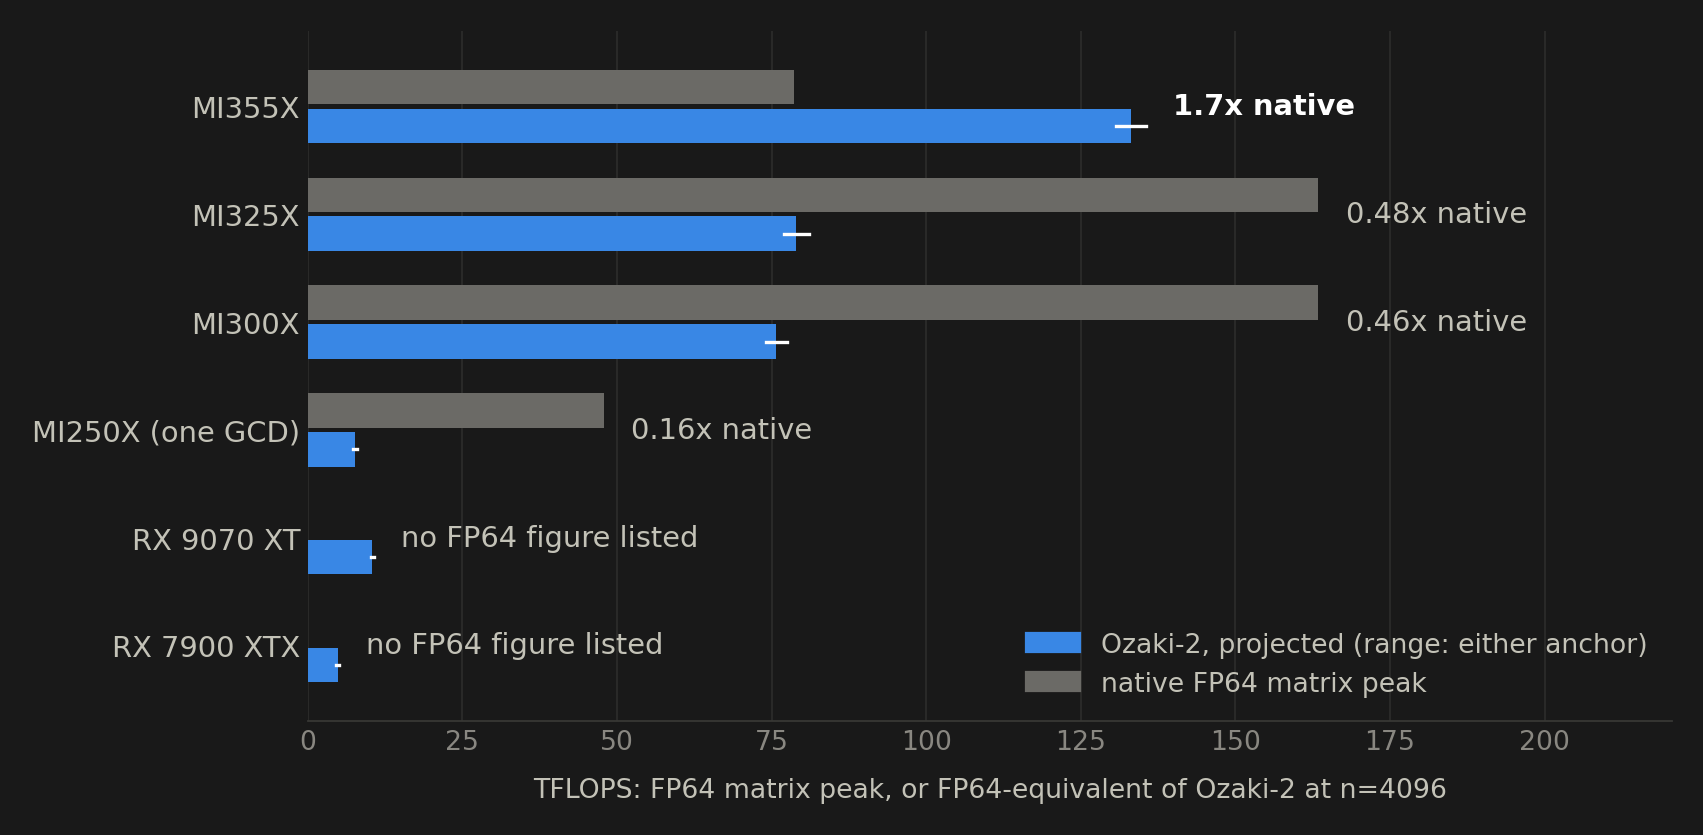
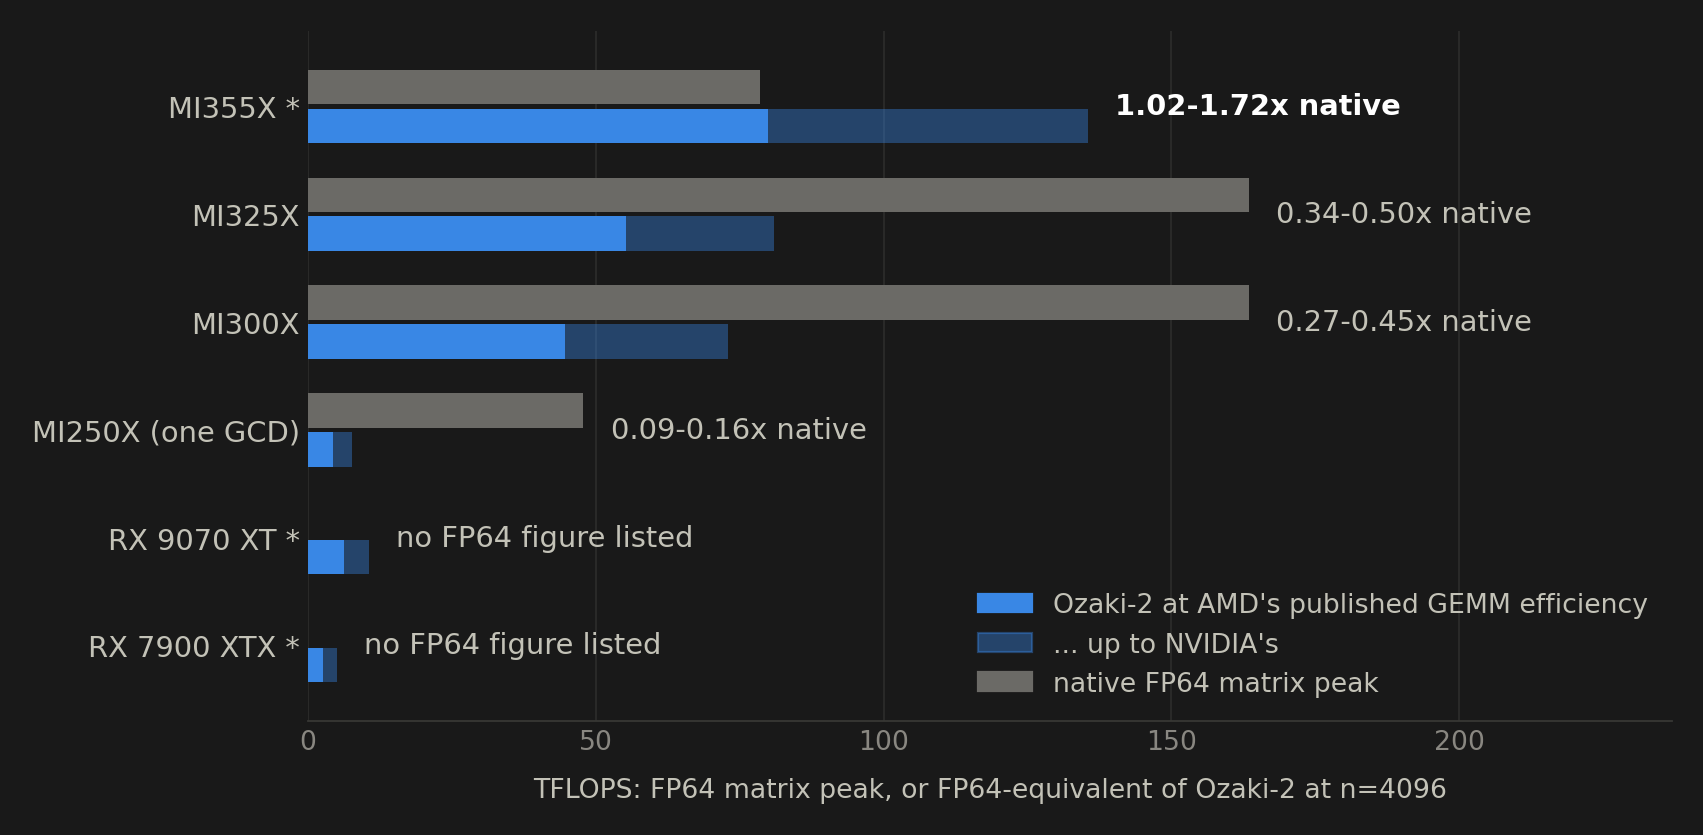
Updated presentation

diff --git a/documentation/counts/assets/figures.py b/documentation/counts/assets/figures.py
@@ -12,8 +12,9 @@
                  a simulated RX 7900 XTX against measured
   transfer.png   ozaki-kernels.csv, specs.csv: GH200 kernel times predicted
                  from H100 PCIe by datasheet ratios against measured
-  ozaki-amd.png  ozaki-kernels.csv, specs.csv: Ozaki-2 FP64 projected for AMD
-                 parts against their native FP64 matrix peak
+  ozaki-amd.png  ozaki-kernels.csv, specs.csv, published.csv: Ozaki-2 FP64
+                 projected for AMD parts from GH200, between AMD's published
+                 GEMM efficiency and NVIDIA's, against the native FP64 peak
 
 Colors: the categorical blue and orange, and a gray for context, on the black
 theme (contrast at least 3.2:1; OKLab difference at least 15.8 between any two
@@ -279,52 +280,61 @@ def transfer():
     save(fig, "transfer.png")
 
 
+def published():
+    """{part: {"bw": [...], "eff": [...]}} from published.csv."""
+    out = defaultdict(lambda: {"bw": [], "eff": []})
+    for r in rows("published.csv"):
+        if r["bandwidth_tbs"]:
+            out[r["part"]]["bw"].append(float(r["bandwidth_tbs"]))
+        if r["matrix_efficiency"]:
+            out[r["part"]]["eff"].append(float(r["matrix_efficiency"]))
+    return out
+
+
 def projection():
-    """[(part, low, high, native)]: Ozaki-2 FP64-equivalent TFLOPS at n=4096 from either anchor."""
-    s, best = specs(), {}
-    for column, anchor in (
-        ("h100pcie_ms", "H100 PCIe"),
-        ("gh200_ms", "GH200"),
-    ):
-        configs = defaultdict(dict)
-        for r in rows("ozaki-kernels.csv"):
-            if (
-                r["size"] == "4096"
-                and r["scheme"] == "2"
-                and "x" not in r["config"]
-            ):
-                configs[(r["config"], r["option"])][r["kernel"]] = float(
-                    r[column]
-                )
-        full = [
-            k
-            for k in configs.values()
-            if any(n.startswith("gemm_crt_fused") for n in k) and len(k) >= 4
-        ]
-        kernels = min(full, key=lambda k: sum(k.values()))
-        g = sum(
-            t
-            for n, t in kernels.items()
-            if n.startswith("gemm") and "reduce" not in n
-        )
-        best[anchor] = (g, sum(kernels.values()) - g)
+    """[(part, low, high, native, own)]: Ozaki-2 FP64-equivalent TFLOPS at n=4096
+    from GH200 (the anchor with a published bandwidth). Low: at the part's
+    published GEMM efficiency relative to Hopper's, and its published bandwidth.
+    High: as efficient as on NVIDIA. A part without published figures (own is
+    False) takes the range of those that have them."""
+    s, pub = specs(), published()
+    configs = defaultdict(dict)
+    for r in rows("ozaki-kernels.csv"):
+        if r["size"] == "4096" and r["scheme"] == "2" and "x" not in r["config"]:
+            configs[(r["config"], r["option"])][r["kernel"]] = float(r["gh200_ms"])
+    full = [
+        k
+        for k in configs.values()
+        if any(n.startswith("gemm_crt_fused") for n in k) and len(k) >= 4
+    ]
+    kernels = min(full, key=lambda k: sum(k.values()))
+    g = sum(t for n, t in kernels.items() if n.startswith("gemm") and "reduce" not in n)
+    o = sum(kernels.values()) - g
+    a, nv = s["GH200"], max(pub["Hopper"]["eff"])
+    bw_a = pub["GH200"]["bw"][0]
+    amd = [p for p in pub if p in s and p not in ("H100 PCIe", "GH200")]
+    effs = [e for p in amd for e in pub[p]["eff"]]
+    fracs = [b / float(s[p]["bandwidth_tbs"]) for p in amd for b in pub[p]["bw"]]
+
+    def tflops(r, eff, bw):
+        t = g * float(a["int8_tops"]) / float(r["int8_tops"]) / eff + o * bw_a / bw
+        return 2.0 * 4096**3 / (t * 1e9)
+
     out = []
     for part, r in s.items():
-        if part in best:
+        if part in ("H100 PCIe", "GH200"):
             continue
-        tf = []
-        for anchor, (g, o) in best.items():
-            a = s[anchor]
-            t = g * float(a["int8_tops"]) / float(r["int8_tops"]) + o * float(
-                a["bandwidth_tbs"]
-            ) / float(r["bandwidth_tbs"])
-            tf.append(2.0 * 4096**3 / (t * 1e9))
+        own = part in pub
+        eff = min(pub[part]["eff"] or effs) / nv
+        datasheet = float(r["bandwidth_tbs"])
+        bw = pub[part]["bw"] or [datasheet * f for f in fracs]
         out.append(
             (
                 part,
-                min(tf),
-                max(tf),
+                tflops(r, eff, min(bw)),
+                tflops(r, 1.0, pub[part]["bw"][0] if pub[part]["bw"] else datasheet * bw_a / float(a["bandwidth_tbs"])),
                 float(r["fp64_matrix"]) if r["fp64_matrix"] else None,
+                own,
             )
         )
     return out
@@ -345,7 +355,7 @@ def ozaki_amd():
     )
     n = len(data)
     ys = list(range(n))[::-1]
-    xmax = max(max(r[2], r[3] or 0) for r in data) * 1.35
+    xmax = max(max(r[2], r[3] or 0) for r in data) * 1.45
     fig, ax = plt.subplots(figsize=(11, 5.6))
     ax.set_xlim(0, xmax)
     ax.set_ylim(-0.7, n - 0.3)
@@ -356,20 +366,18 @@ def ozaki_amd():
     ax.spines["bottom"].set_color(AXIS)
     ax.tick_params(length=0, labelsize=12)
     h = 0.32
-    for y, (part, lo, hi, native) in zip(ys, data):
-        mid = math.sqrt(lo * hi)
+    for y, (part, lo, hi, native, own) in zip(ys, data):
+        yb = y - h / 2 - 0.02
         if native:
-            ax.barh(
-                y + h / 2 + 0.02, native, height=h, color=GRAY, linewidth=0
-            )
-        ax.barh(y - h / 2 - 0.02, mid, height=h, color=BLUE, linewidth=0)
-        ax.plot([lo, hi], [y - h / 2 - 0.02] * 2, color=INK, linewidth=1.5)
-        win = native and mid > native
+            ax.barh(y + h / 2 + 0.02, native, height=h, color=GRAY, linewidth=0)
+        ax.barh(yb, lo, height=h, color=BLUE, linewidth=0)
+        ax.barh(yb, hi - lo, left=lo, height=h, color=BLUE, alpha=0.4, linewidth=0)
+        win = native and hi > native
         ax.text(
             max(hi, native or 0) + xmax * 0.02,
             y,
             (
-                ("%.2gx native" % (mid / native))
+                ("%.2f-%.2fx native" % (lo / native, hi / native))
                 if native
                 else "no FP64 figure listed"
             ),
@@ -379,7 +387,9 @@ def ozaki_amd():
             fontweight="bold" if win else None,
         )
     ax.set_yticks(ys)
-    ax.set_yticklabels([r[0] for r in data], color=INK_2, fontsize=13)
+    ax.set_yticklabels(
+        [r[0] + ("" if r[4] else " *") for r in data], color=INK_2, fontsize=13
+    )
     ax.set_xlabel(
         "TFLOPS: FP64 matrix peak, or FP64-equivalent of Ozaki-2 at n=4096",
         fontsize=12,
@@ -387,12 +397,14 @@ def ozaki_amd():
     )
     handles = [
         plt.Rectangle((0, 0), 1, 1, color=BLUE),
+        plt.Rectangle((0, 0), 1, 1, color=BLUE, alpha=0.4),
         plt.Rectangle((0, 0), 1, 1, color=GRAY),
     ]
     ax.legend(
         handles,
         [
-            "Ozaki-2, projected (range: either anchor)",
+            "Ozaki-2 at AMD's published GEMM efficiency",
+            "... up to NVIDIA's",
             "native FP64 matrix peak",
         ],
         loc="lower right",

diff --git a/documentation/counts/index.md b/documentation/counts/index.md
@@ -145,11 +145,11 @@ A kernel's counts as a mixture of the mixes counted on the same target:
 
 ## Where FP64 emulation pays on AMD
 
-The same ratios from both anchors to AMD's datasheets, for an Ozaki-2 port at the efficiency of the NVIDIA one (none exists yet):
+From GH200 by datasheet ratios, with **published** bandwidth and GEMM efficiency where they exist: an Ozaki-2 port (none yet) from AMD's efficiency up to NVIDIA's:
 
-<img class="wide" style="max-height: 55vh" src="assets/ozaki-amd.png" alt="Ozaki-2 projected for AMD against native FP64"/>
+<img class="wide" style="max-height: 50vh" src="assets/ozaki-amd.png" alt="Ozaki-2 projected for AMD against native FP64"/>
 
-<span style="opacity: 0.4; font-size: 50%;">CDNA 4: FP64 matrix 163.4 to 78.6 TFLOPS, int8 2615 to 5033 TOPS. Against peak, not achieved DGEMM. Sources: assets/specs.csv.</span>
+<span style="opacity: 0.4; font-size: 50%;">* Nothing published: the range of MI250X, MI300X, MI325X. Against peak: DGEMM reaches 50% on MI250X, favoring the upper end. Sources: specs.csv, published.csv.</span>
 
 ---
 
